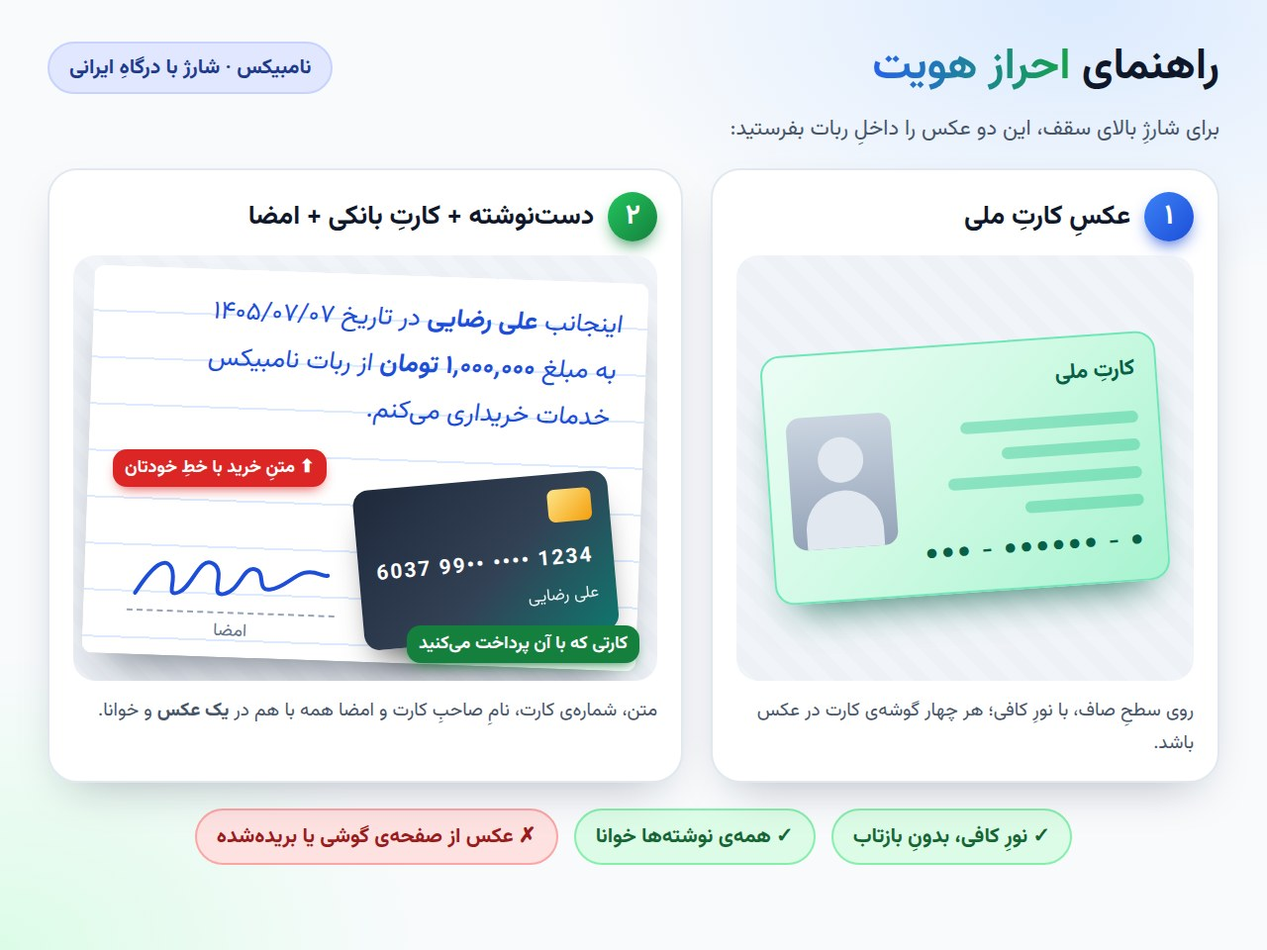
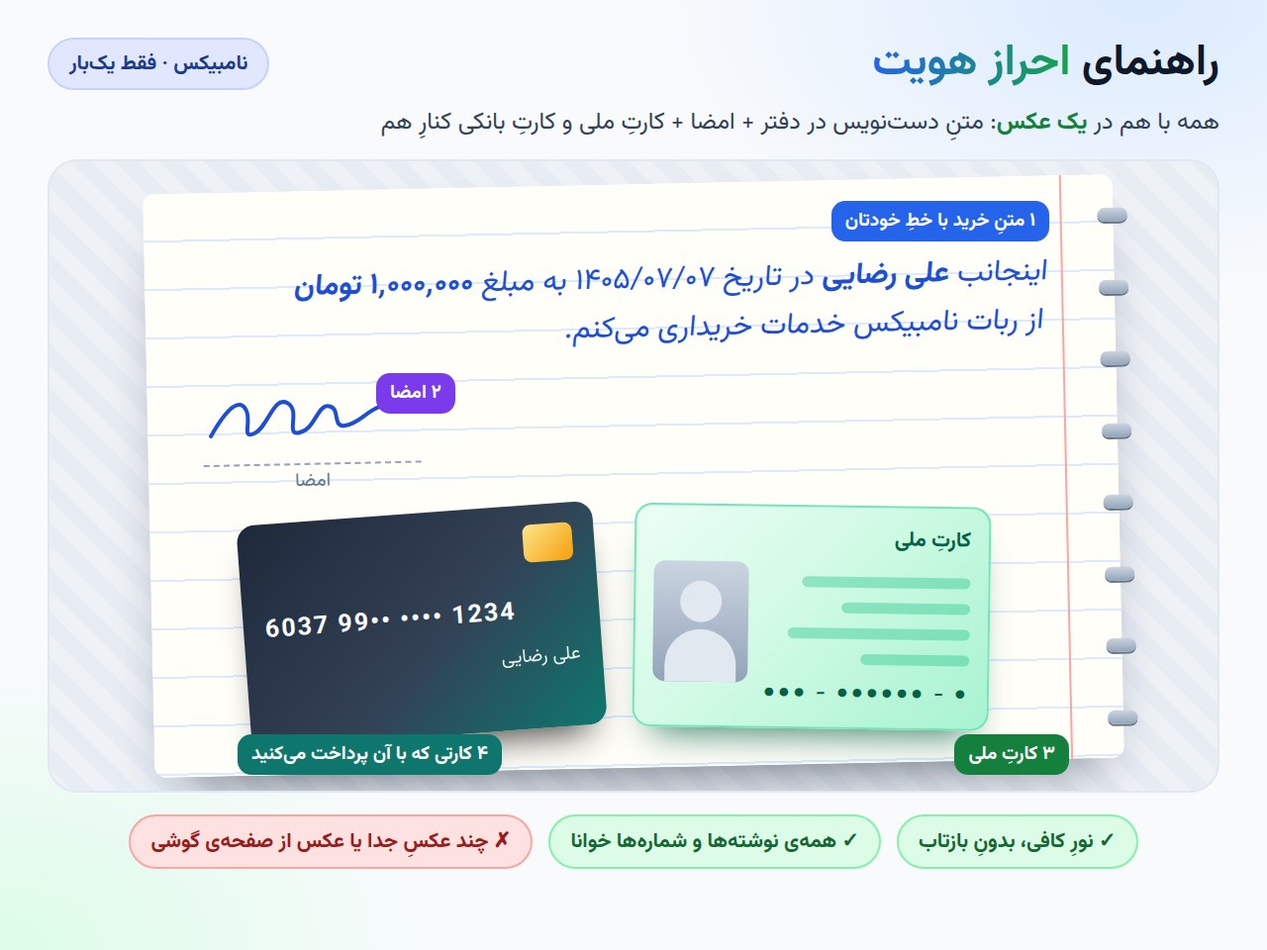
KYC for the Iranian gateway: one photo, one time
- Documents step is now a single photo: handwritten purchase text in a
  notebook + signature + national card and bank card side by side.
- New guide image showing exactly that layout.
- Asked only once: never again after approval; while pending an extra
  photo (album / double send) is ignored instead of re-notifying admins.
- Stale images from a rejected request are removed on re-submission.
- Users caught mid-way in the old two-step flow are handled (step 1 moves
  to the one-photo request; step 2 still submits both photos).
- Unchanged stored two-step texts are reset by migration v23_kyc_one.
- KYC stays Iranian-gateway only; tests confirm crypto and card-to-card
  never ask for it.

Claude-Session: https://claude.ai/code/session_0149wVT9SVdDfShZwvLnVCkA

diff --git a/numbix/pay.php b/numbix/pay.php
@@ -78,7 +78,7 @@ function kycLimit() { return (float)(irCfg()['kyc_limit'] ?? 0); }
 // احراز هویت فقط با شمارهی موبایل (بدونِ اسم و فامیل):
 //  otp   = زرینپال یک کدِ یکبارمصرف (پیامک/USSD) به همان شماره میفرستد و کاربر کد را وارد میکند (خودکار)
 //  phone = شماره برای مدیر فرستاده میشود و مدیر تایید میکند (وقتی کلیدِ OAuth زرینپال گذاشته نشده)
-//  docs  = (پیشفرض) بالای سقف: عکسِ کارتِ ملی + عکسِ دستنوشتهی خرید با کارتِ بانکیِ پرداخت و امضا — تاییدِ مدیر
+//  docs  = (پیشفرض) بالای سقف، فقط یکبار: یک عکس — دستنوشتهی خرید در دفتر + امضا + کارتِ ملی و کارتِ بانکیِ پرداخت کنارِ هم — تاییدِ مدیر
 function zpOauthCfg() { $c = irCfg(); $cl = function_exists('gwCleanKey') ? 'gwCleanKey' : 'trim'; return [$cl((string)($c['oauth_id'] ?? '')), $cl((string)($c['oauth_secret'] ?? ''))]; }
 function kycMode() {
     $m = (string)(irCfg()['kyc_mode'] ?? 'auto');
@@ -651,12 +651,12 @@ function kycStart($uid, $chatId, $msgId = null) {
     kycDocsStart($uid, $chatId, $msgId);
 }
 
-// احراز با مدارک: عکسِ راهنما، بعد مرحلهی ۱ (کارتِ ملی) و ۲ (دستنوشته + کارتِ بانکی + امضا)
+// احراز با مدارک (فقط یکبار): عکسِ راهنما، بعد «یک عکس» — دستنوشته در دفتر + امضا + کارتِ ملی و کارتِ بانکی کنارِ هم
 function kycDocsStart($uid, $chatId, $msgId = null) {
     if ($msgId) { delMsg(BOT_TOKEN, $chatId, $msgId); slotClear($uid, 'wallet'); }
     kycGuideSend($chatId);
-    setState($uid, 'kyc_card');
-    sendMsg(BOT_TOKEN, $chatId, T('kyc_card_ask'), inlineKb([[tuBtn('cancel', 'cb', 'tux')]]));
+    setState($uid, 'kyc_note');
+    sendMsg(BOT_TOKEN, $chatId, T('kyc_note_ask', kycNoteVars($uid)), inlineKb([[tuBtn('cancel', 'cb', 'tux')]]));
 }
 
 function kycGuideFile() { return __DIR__ . '/img/kyc_guide.jpg'; }
@@ -702,7 +702,7 @@ function kycDir() {
     }
     return $d;
 }
-// نامِ فایلِ عکسِ کارتِ ملی تصادفی است (نه آیدیِ کاربر) تا حدسزدنی نباشد؛ فایلهای قدیمیِ «آیدی.img» هم خوانده میشوند
+// نامِ فایلِ عکسِ مدارک تصادفی است (نه آیدیِ کاربر) تا حدسزدنی نباشد؛ فایلهای قدیمیِ «آیدی.img» هم خوانده میشوند
 function kycImgPath($uid, $slot = 'img') {
     $slot = $slot === 'img2' ? 'img2' : 'img';
     $n = (string)((getUser((int)$uid) ?: [])['kyc'][$slot] ?? '');
@@ -748,20 +748,38 @@ function kycSubmit($uid, $uname, $fname, $code, $fileId, $isDoc) {
     kycNotify($uid, $uname, $fname);
 }
 
-// احراز با مدارک: ۱) کارتِ ملی ۲) دستنوشتهی خرید + کارتِ بانکی + امضا
-function kycSubmitDocs($uid, $uname, $fname, array $card, array $note) {
-    mutateUser($uid, function (&$u) use ($card, $note) {
+// احراز با مدارک: یک عکس (دستنوشتهی خرید + امضا + کارتِ ملی و کارتِ بانکی کنارِ هم).
+// $card فقط برای کاربری است که وسطِ روشِ قدیمیِ دومرحلهای بوده (عکسِ کارتِ ملی را جدا فرستاده).
+// اگر درخواست در حالِ بررسی یا تاییدشده باشد، عکسِ دوباره (مثلا آلبوم) نادیده گرفته میشود → false
+function kycSubmitDocs($uid, $uname, $fname, array $note, array $card = []) {
+    // عکسهای درخواستِ ردشدهی قبلی: پاک میشوند تا اگر دانلودِ عکسِ تازه نگرفت، عکسِ کهنه جای آن دیده نشود
+    $old = [kycImgPath($uid, 'img'), kycImgPath($uid, 'img2')];
+    $fresh = false;
+    mutateUser($uid, function (&$u) use ($card, $note, &$fresh) {
         if ($u === null) return;
-        $u['kyc'] = ['st' => 'pending', 'mode' => 'docs', 'code' => '',
-                     'photo' => (string)$card['fid'], 'doc' => !empty($card['doc']) ? 1 : 0,
-                     'photo2' => (string)$note['fid'], 'doc2' => !empty($note['doc']) ? 1 : 0,
-                     'phone' => (string)($u['phone'] ?? ''), 'amt' => (float)($u['kyc_amt'] ?? 0), 'at' => time(),
-                     'img' => (string)($u['kyc']['img'] ?? ''), 'img2' => (string)($u['kyc']['img2'] ?? '')];
+        $st = (string)($u['kyc']['st'] ?? '');
+        if ($st === 'pending' || $st === 'ok') return;
+        $k = ['st' => 'pending', 'mode' => 'docs', 'code' => '',
+              'photo' => (string)$note['fid'], 'doc' => !empty($note['doc']) ? 1 : 0,
+              'phone' => (string)($u['phone'] ?? ''), 'amt' => (float)($u['kyc_amt'] ?? 0), 'at' => time()];
+        if (!empty($card['fid'])) {
+            $k['photo'] = (string)$card['fid']; $k['doc'] = !empty($card['doc']) ? 1 : 0;
+            $k['photo2'] = (string)$note['fid']; $k['doc2'] = !empty($note['doc']) ? 1 : 0;
+        }
+        $u['kyc'] = $k;
+        $fresh = true;
     });
+    if (!$fresh) return false;
+    foreach ($old as $f) if ($f !== '') @unlink($f);
     kycQueue(function (&$q) use ($uid) { $q[(string)$uid] = time(); });
-    kycSavePhoto($uid, (string)$card['fid'], 'img');
-    kycSavePhoto($uid, (string)$note['fid'], 'img2');
+    if (!empty($card['fid'])) {
+        kycSavePhoto($uid, (string)$card['fid'], 'img');
+        kycSavePhoto($uid, (string)$note['fid'], 'img2');
+    } else {
+        kycSavePhoto($uid, (string)$note['fid'], 'img');
+    }
     kycNotify($uid, $uname, $fname);
+    return true;
 }
 
 // احراز هویت فقط با شمارهی موبایل: شماره همان است که کاربر با دکمهی «ارسال شماره» فرستاده (تلگرام تاییدش کرده)
@@ -784,7 +802,8 @@ function kycCaption($uid) {
            ((float)($k['amt'] ?? 0) > 0 ? "\n💰 مبلغِ درخواستی: <b>" . fmtNum((float)$k['amt']) . "</b> تومان" : '') .
            "\n\n" . (($k['mode'] ?? 'phone') === 'docs'
                ? (!empty($k['photo2']) ? "📎 مدارک: ۱) کارتِ ملی ۲) دستنوشتهی خرید + کارتِ بانکی + امضا\n\n☑ بررسی کنید: نام روی کارتِ ملی = نامِ دستنوشته = نامِ صاحبِ کارتِ بانکی؛ امضا و مبلغ درست باشد."
-                                         : '📎 مدارک: عکسِ کارتِ ملی')
+                 : (trim((string)($k['code'] ?? '')) !== '' ? '📎 مدارک: عکسِ کارتِ ملی'
+                 : "📎 مدارک (یک عکس): دستنوشته در دفتر + امضا + کارتِ ملی و کارتِ بانکی کنارِ هم\n\n☑ بررسی کنید: نام روی کارتِ ملی = نامِ دستنوشته = نامِ صاحبِ کارتِ بانکی؛ امضا، تاریخ و مبلغ درست باشد."))
                : '☑ احراز با شمارهی موبایل (تاییدشده توسطِ تلگرام)');
 }
 
@@ -792,7 +811,7 @@ function kycKb($uid) {
     return inlineKb([[btnCb('✅ تایید', 'akyc_ok_' . (int)$uid, 'confirm'), btnCb('❌ رد', 'akyc_no_' . (int)$uid, 'reject')]]);
 }
 
-// عکسِ اولِ مدارک (کارتِ ملی) بدونِ دکمه، عکسِ دوم با کپشنِ کامل و دکمههای تایید/رد
+// فقط درخواستهای روشِ قدیمیِ دوعکسی: عکسِ اول (کارتِ ملی) بدونِ دکمه، عکسِ دوم با کپشنِ کامل و دکمههای تایید/رد
 function kycSendDocs($aid, $uid) {
     $k = (array)((getUser($uid) ?: [])['kyc'] ?? []);
     if (empty($k['photo2'])) return false;
@@ -985,27 +1004,33 @@ function payStateHandle($action, $msg, $uid, $chatId) {
         return true;
     }
     if ($action === 'kyc_card' || $action === 'kyc_note') {
+        $cancel = inlineKb([[tuBtn('cancel', 'cb', 'tux')]]);
+        $kst = kycSt($uid);
+        if ($kst === 'pending' || $kst === 'ok') {   // یکبار کافی است؛ عکسِ اضافه (آلبوم) دوباره ثبت نمیشود
+            clearState($uid);
+            if ($kst === 'ok') sendMsg(BOT_TOKEN, $chatId, T('kyc_ok'), inlineKb([[tuBtn('iran', 'cb', 'tum_iran')]]));
+            return true;
+        }
+        if ($action === 'kyc_card') {
+            // کاربری که هنگامِ بهروزرسانی وسطِ روشِ قدیمیِ دومرحلهای بوده: حالا همه در یک عکس
+            setState($uid, 'kyc_note');
+            sendMsg(BOT_TOKEN, $chatId, T('kyc_note_ask', kycNoteVars($uid)), $cancel);
+            return true;
+        }
         $fid = ''; $doc = false;
         if (!empty($msg['photo'])) { $p = $msg['photo']; $fid = (string)($p[count($p) - 1]['file_id'] ?? ''); }
         elseif (!empty($msg['document']) && str_starts_with((string)($msg['document']['mime_type'] ?? ''), 'image/')) {
             $fid = (string)($msg['document']['file_id'] ?? ''); $doc = true;
         }
-        $cancel = inlineKb([[tuBtn('cancel', 'cb', 'tux')]]);
         if ($fid === '') {
             sendMsg(BOT_TOKEN, $chatId, T('kyc_photo_bad'), $cancel);
-            sendMsg(BOT_TOKEN, $chatId, $action === 'kyc_card' ? T('kyc_card_ask') : T('kyc_note_ask', kycNoteVars($uid)), $cancel);
-            return true;
-        }
-        if ($action === 'kyc_card') {
-            setState($uid, 'kyc_note', ['card' => $fid, 'cdoc' => $doc ? 1 : 0]);
             sendMsg(BOT_TOKEN, $chatId, T('kyc_note_ask', kycNoteVars($uid)), $cancel);
             return true;
         }
-        $card = (string)($sd['card'] ?? '');
-        if ($card === '') { setState($uid, 'kyc_card'); sendMsg(BOT_TOKEN, $chatId, T('kyc_card_ask'), $cancel); return true; }
         clearState($uid);
-        kycSubmitDocs($uid, $uname, $fname, ['fid' => $card, 'doc' => !empty($sd['cdoc'])], ['fid' => $fid, 'doc' => $doc]);
-        sendMsg(BOT_TOKEN, $chatId, T('kyc_sent'), tuRestoreKb());
+        $card = (string)($sd['card'] ?? '');   // فقط روشِ قدیمی
+        if (kycSubmitDocs($uid, $uname, $fname, ['fid' => $fid, 'doc' => $doc], $card !== '' ? ['fid' => $card, 'doc' => !empty($sd['cdoc'])] : []))
+            sendMsg(BOT_TOKEN, $chatId, T('kyc_sent'), tuRestoreKb());
         return true;
     }
     if ($action === 'kyc_code') {
@@ -1189,13 +1214,13 @@ function payTextLabels() {
         'topup_gw_down' => '🪙 درگاهِ ارز جواب نداد',
         'topup_ir_phone' => '🏦 درخواستِ شماره', 'topup_ir_phone_ok' => '🏦 شماره ثبت شد',
         'topup_ir_phone_bad' => '🏦 شمارهی نامعتبر', 'topup_ir_amount' => '🏦 مبلغِ شارژِ ریالی',
-        'topup_ir_kyc_need' => '🏦 نیاز به احراز (کارتِ ملی + دستنوشته)', 'topup_ir_kyc_need_phone' => '🏦 نیاز به احراز (فقط شماره)',
+        'topup_ir_kyc_need' => '🏦 نیاز به احراز (یک عکس: دفتر + دو کارت)', 'topup_ir_kyc_need_phone' => '🏦 نیاز به احراز (فقط شماره)',
         'topup_ir_confirm' => '🏦 تایید و لینکِ درگاه',
         'topup_ir_down' => '🏦 درگاهِ ایرانی جواب نداد', 'topup_paid' => '✅ فاکتورِ پرداختشده',
         'kyc_otp_ask' => '🪪 درخواستِ کدِ تایید (زرینپال)', 'kyc_otp_bad' => '🪪 کدِ تاییدِ اشتباه', 'kyc_otp_fail' => '🪪 کد فرستاده نشد',
         'kyc_phone_confirm' => '🪪 احراز با شماره (تایید و ارسال)',
-        'kyc_guide' => '🪪 متنِ زیرِ عکسِ راهنما', 'kyc_card_ask' => '🪪 مرحلهی ۱: عکسِ کارتِ ملی',
-        'kyc_note_ask' => '🪪 مرحلهی ۲: دستنوشته + کارتِ بانکی + امضا', 'kyc_photo_bad' => '🪪 عکس نفرستاد',
+        'kyc_guide' => '🪪 متنِ زیرِ عکسِ راهنما',
+        'kyc_note_ask' => '🪪 درخواستِ عکس (دستنوشته + امضا + کارتِ ملی و بانکی)', 'kyc_photo_bad' => '🪪 عکس نفرستاد',
         'kyc_sent' => '🪪 مدارک ثبت شد',
         'kyc_pending' => '🪪 در حالِ بررسی', 'kyc_ok' => '🪪 احراز هویت تایید شد', 'kyc_no' => '🪪 احراز هویت رد شد',
     ];
@@ -1299,7 +1324,7 @@ function payAdmIr($chatId, $msgId) {
     $t .= "مرچنت: " . ($m !== '' ? '✅ ' . h(mb_substr($m, 0, 6)) . '…' : '<b>خالی</b>') . "\n";
     $t .= "حداقل: <b>" . fmtNum(tuMin('iran')) . "</b> · حداکثر: <b>" . ((float)($c['max'] ?? 0) > 0 ? fmtNum($c['max']) : 'بیسقف') . "</b> تومان\n";
     $t .= "احراز هویت: " . (!empty($c['kyc']) ? '✅ بالای <b>' . fmtNum(kycLimit()) . '</b> تومان — ' .
-          ['otp' => 'کدِ یکبارمصرفِ زرینپال به شمارهی موبایل', 'phone' => 'شمارهی موبایل + تاییدِ مدیر', 'docs' => 'عکسِ کارتِ ملی + دستنوشتهی خرید با کارتِ بانکی و امضا (تاییدِ مدیر)'][kycMode()] : '❌ خاموش') . "\n";
+          ['otp' => 'کدِ یکبارمصرفِ زرینپال به شمارهی موبایل', 'phone' => 'شمارهی موبایل + تاییدِ مدیر', 'docs' => 'یک عکس: دستنوشته در دفتر + امضا + کارتِ ملی و کارتِ بانکی کنارِ هم (تاییدِ مدیر، فقط یکبار)'][kycMode()] : '❌ خاموش') . "\n";
     [$oid0, $osc0] = zpOauthCfg();
     $t .= "OAuthِ زرینپال (برای کدِ پیامکی): " . ($oid0 !== '' && $osc0 !== '' ? '✅ ثبت شده' : '— ثبت نشده (client_id و client_secret را از پشتیبانیِ زرینپال بگیرید)') . "\n";
     $t .= "فقط شمارهی ایرانی: " . (!empty($c['ir_only']) ? '✅' : '❌') . "\n";
@@ -1311,7 +1336,7 @@ function payAdmIr($chatId, $msgId) {
         [btnCb('🔻 حداقل', 'payx_ir_min', 'admin'), btnCb('🔺 حداکثر', 'payx_ir_max', 'admin')],
         [btnCb((!empty($c['kyc']) ? '🪪 احراز: روشن' : '🪪 احراز: خاموش'), 'payx_ir_k', 'admin'), btnCb('📏 سقفِ بدونِ احراز', 'payx_ir_kl', 'admin')],
         [btnCb((!empty($c['ir_only']) ? '🇮🇷 فقط ایرانی: روشن' : '🇮🇷 فقط ایرانی: خاموش'), 'payx_ir_io', 'admin'),
-         btnCb(['otp' => '📩 احراز: کدِ پیامکیِ زرینپال', 'phone' => '📱 احراز: شماره + تاییدِ مدیر', 'docs' => '📎 احراز: کارتِ ملی + دستنوشته'][kycMode()], 'payx_ir_km', 'admin')],
+         btnCb(['otp' => '📩 احراز: کدِ پیامکیِ زرینپال', 'phone' => '📱 احراز: شماره + تاییدِ مدیر', 'docs' => '📎 احراز: یک عکس (دفتر + دو کارت)'][kycMode()], 'payx_ir_km', 'admin')],
         [btnCb('🖼 عکسِ راهنمای احراز' . (trim((string)($c['kyc_guide'] ?? '')) !== '' ? ' (عکسِ خودتان)' : ' (پیشفرض)'), 'payx_kg', 'admin')],
         [btnCb('🔐 OAuth: client_id', 'payx_ir_ci', 'admin'), btnCb('🔐 OAuth: client_secret', 'payx_ir_cs', 'admin')],
         [btnCb(((irCfg()['otp_ch'] ?? 'sms') === 'ussd' ? '📞 کد با USSD' : '💬 کد با پیامک'), 'payx_ir_ch', 'admin')],
@@ -2159,8 +2184,8 @@ $('phBot').onclick = function(){ tap(); openBot('phone'); };
 function kycView(st, lim){
   var ph = S.kmode !== 'docs';
   $('kT').innerHTML = st === 'pending' ? 'درخواستِ احراز هویتِ شما در حالِ بررسی است؛ تا تایید، مبلغِ کمتر از <b>' + fa(lim) + '</b> تومان را پرداخت کنید.'
-    : 'برای پرداختِ بیش از <b>' + fa(lim) + '</b> تومان، یکبار احراز هویت لازم است' + (ph ? ' — فقط با <b>شمارهی موبایلِ</b> خودتان؛ اسم و مدرک لازم نیست.'
-      : ': <b>۱)</b> عکسِ کارتِ ملی <b>۲)</b> دستنوشتهی خرید + کارتِ بانکیای که با آن پرداخت میکنید + امضا — داخلِ ربات، با راهنمای تصویری.');
+    : 'برای پرداخت با درگاهِ ایرانی بیش از <b>' + fa(lim) + '</b> تومان، یکبار احراز هویت لازم است' + (ph ? ' — فقط با <b>شمارهی موبایلِ</b> خودتان؛ اسم و مدرک لازم نیست.'
+      : ' — با <b>یک عکس</b>: متنِ خرید در دفترتان + امضا + <b>کارتِ ملی</b> و <b>کارتِ بانکی</b>ای که با آن پرداخت میکنید کنارِ هم. داخلِ ربات، با راهنمای تصویری؛ بعد از تایید دیگر لازم نیست.');
   if (S.kmode === 'otp') $('kT').innerHTML = 'برای پرداختِ بیش از <b>' + fa(lim) + '</b> تومان، یکبار شمارهی موبایلتان را با <b>کدِ تاییدِ زرینپال</b> تایید کنید؛ اسم و مدرک لازم نیست.';
   $('kGoT').textContent = S.kmode === 'otp' ? 'دریافتِ کدِ تایید' : (ph ? 'ارسالِ شماره برای احراز هویت' : 'احراز هویت در ربات');
   $('kGo').classList.toggle('hid', st === 'pending');

diff --git a/numbix/bot_master_membership.php b/numbix/bot_master_membership.php
@@ -1064,12 +1064,11 @@ function defaultConfig() {
             'topup_ir_phone_ok'    => "✅ شمارهی <b>{phone}</b> ثبت شد.",
             'topup_ir_phone_bad'   => "⚠ فقط شمارهی موبایلِ ایرانیِ <b>خودتان</b> را با دکمهی «📱 ارسال شماره» بفرستید.",
             'topup_ir_amount'      => "<tg-emoji emoji-id=\"6302990448206022613\">🏦</tg-emoji> <b>درگاه پرداخت ایرانی</b>\n\n📱 شماره: <b>{phone}</b>\nمبلغِ شارژ را به <b>تومان</b> بفرستید یا یکی از دکمهها را بزنید.\n\n🔻 حداقل: <b>{min}</b> تومان",
-            // تا سقف فقط شماره؛ بالای سقف: عکسِ کارتِ ملی + دستنوشتهی خرید با کارتِ بانکی و امضا
-            'topup_ir_kyc_need'    => "<tg-emoji emoji-id=\"5251203410396458957\">🛡</tg-emoji> <b>احراز هویت لازم است</b>\n\nبرای شارژِ بیش از <b>{limit}</b> تومان، یکبار احراز هویت کنید:\n<blockquote>۱) عکسِ کارتِ ملی\n۲) دستنوشتهی خرید + کارتِ بانکیای که با آن پرداخت میکنید + امضا</blockquote>\nراهنمای تصویری هم برایتان میفرستیم. تا <b>{limit}</b> تومان فقط شمارهی موبایل کافی است؛ یا مبلغِ کمتری وارد کنید.",
+            // تا سقف فقط شماره؛ بالای سقف (فقط یکبار): یک عکس — دستنوشته در دفتر + امضا + کارتِ ملی و کارتِ بانکی کنارِ هم
+            'topup_ir_kyc_need'    => "<tg-emoji emoji-id=\"5251203410396458957\">🛡</tg-emoji> <b>احراز هویت لازم است</b>\n\nبرای شارژ با <b>درگاهِ ایرانی</b> بیش از <b>{limit}</b> تومان، <b>فقط یکبار</b> احراز هویت کنید — با <b>یک عکس</b>:\n<blockquote>در دفترتان متنِ خرید را با خطِ خودتان بنویسید و امضا کنید، <b>کارتِ ملی</b> و <b>کارتِ بانکی</b>ای را که با آن پرداخت میکنید کنارِ هم روی برگه بگذارید و عکس بگیرید.</blockquote>\nراهنمای تصویری هم برایتان میفرستیم؛ بعد از تایید دیگر لازم نیست. تا <b>{limit}</b> تومان فقط شمارهی موبایل کافی است؛ یا مبلغِ کمتری وارد کنید.",
             'topup_ir_kyc_need_phone' => "🪪 <b>احراز هویت لازم است</b>\n\nبرای پرداختِ بیش از <b>{limit}</b> تومان، یکبار احراز هویت کنید — فقط با <b>شمارهی موبایلِ</b> خودتان؛ اسم و فامیل لازم نیست.\n\nیا مبلغِ کمتری وارد کنید.",
-            'kyc_guide'            => "<tg-emoji emoji-id=\"5251203410396458957\">🛡</tg-emoji> <b>راهنمای احراز هویت</b>\n\n۱) یک عکسِ واضح از روی <b>کارتِ ملی</b>\n۲) روی یک برگه متنِ خرید را با خطِ خودتان بنویسید، <b>کارتِ بانکی</b>ای را که با آن پرداخت میکنید رویش بگذارید و <b>امضا</b> کنید؛ از همه با هم <b>یک عکس</b> بگیرید.\n\n✅ نورِ کافی، بدونِ بازتاب؛ همهی نوشتهها خوانا.",
-            'kyc_card_ask'         => "<tg-emoji emoji-id=\"5305265301917549162\">📎</tg-emoji> <b>مرحلهی ۱ از ۲ — کارتِ ملی</b>\n\nیک عکسِ واضح از روی <b>کارتِ ملی</b>ِ خودتان بفرستید 👇",
-            'kyc_note_ask'         => "<tg-emoji emoji-id=\"5197269100878907942\">✍</tg-emoji> <b>مرحلهی ۲ از ۲ — دستنوشته + کارتِ بانکی + امضا</b>\n\nروی یک برگه با خطِ خودتان این را بنویسید:\n<blockquote>اینجانب ……………… (نام و نام خانوادگی) در تاریخ {date} به مبلغ {amount} تومان از ربات نامبیکس خدمات خریداری میکنم.</blockquote>\n✍ زیرش <b>امضا</b> کنید، <b>کارتِ بانکی</b>ای را که با آن پرداخت میکنید روی برگه بگذارید و از همه با هم <b>یک عکس</b> بفرستید 👇\n\n<tg-emoji emoji-id=\"5420323339723881652\">⚠</tg-emoji> شمارهی کارت، نامِ صاحبِ کارت، متن و امضا باید خوانا باشد.",
+            'kyc_guide'            => "<tg-emoji emoji-id=\"5251203410396458957\">🛡</tg-emoji> <b>راهنمای احراز هویت — فقط یکبار</b>\n\nهمه با هم در <b>یک عکس</b>:\n۱) متنِ خرید با خطِ خودتان در دفتر\n۲) <b>امضا</b> زیرِ متن\n۳) <b>کارتِ ملی</b> و ۴) <b>کارتِ بانکی</b>ای که با آن پرداخت میکنید، کنارِ هم روی همان برگه\n\n✅ نورِ کافی، بدونِ بازتاب؛ همهی نوشتهها و شمارهها خوانا.",
+            'kyc_note_ask'         => "<tg-emoji emoji-id=\"5197269100878907942\">✍</tg-emoji> <b>احراز هویت — یک عکس، فقط یکبار</b>\n\nدر دفترتان با خطِ خودتان این را بنویسید:\n<blockquote>اینجانب ……………… (نام و نام خانوادگی) در تاریخ {date} به مبلغ {amount} تومان از ربات نامبیکس خدمات خریداری میکنم.</blockquote>\n✍ زیرش <b>امضا</b> کنید، <b>کارتِ ملی</b> و <b>کارتِ بانکی</b>ای را که با آن پرداخت میکنید <b>کنارِ هم</b> روی برگه بگذارید و از همه با هم <b>یک عکس</b> بفرستید 👇\n\n<tg-emoji emoji-id=\"5420323339723881652\">⚠</tg-emoji> متن، امضا، نام و شمارهی هر دو کارت باید خوانا باشد.",
             'kyc_photo_bad'        => "⚠ لطفا <b>عکس</b> بفرستید (متن یا فایلِ غیرِ عکس پذیرفته نمیشود).",
             'kyc_otp_ask'          => "🪪 <b>احراز هویت با شمارهی موبایل</b>\n\nکدِ تاییدِ یکبارمصرفِ <b>زرینپال</b> برای <b>{phone}</b> فرستاده شد ({channel}).\n{ussd}\n👇 کد را همینجا بفرستید:",
             'kyc_otp_bad'          => "⚠ {error}\nکد را دوباره بفرستید یا کدِ تازه بگیرید.",
@@ -5687,6 +5686,18 @@ function runBackgroundQueues() {
             foreach (['word_hack', 'manual_protect', 'shield_after', 'hack_cooldown', 'rng'] as $k) unset($c[$k]);
             foreach (array_keys((array)($c['texts'] ?? [])) as $k)
                 if (preg_match('/^(hack_|risk_|btn_risk_)|^(protected|protect_still)$/', (string)$k)) unset($c['texts'][$k]);
+        });
+    });
+    migrateOnce('v23_kyc_one', function () {
+        // احراز با مدارک حالا «یک عکس» است؛ متنهای دومرحلهای اگر بیتغییر ذخیره شدهاند پاک شوند تا متنِ تازه بنشیند
+        cfgSet(function (&$c) {
+            $old = [
+                'topup_ir_kyc_need' => "<tg-emoji emoji-id=\"5251203410396458957\">🛡</tg-emoji> <b>احراز هویت لازم است</b>\n\nبرای شارژِ بیش از <b>{limit}</b> تومان، یکبار احراز هویت کنید:\n<blockquote>۱) عکسِ کارتِ ملی\n۲) دستنوشتهی خرید + کارتِ بانکیای که با آن پرداخت میکنید + امضا</blockquote>\nراهنمای تصویری هم برایتان میفرستیم. تا <b>{limit}</b> تومان فقط شمارهی موبایل کافی است؛ یا مبلغِ کمتری وارد کنید.",
+                'kyc_guide' => "<tg-emoji emoji-id=\"5251203410396458957\">🛡</tg-emoji> <b>راهنمای احراز هویت</b>\n\n۱) یک عکسِ واضح از روی <b>کارتِ ملی</b>\n۲) روی یک برگه متنِ خرید را با خطِ خودتان بنویسید، <b>کارتِ بانکی</b>ای را که با آن پرداخت میکنید رویش بگذارید و <b>امضا</b> کنید؛ از همه با هم <b>یک عکس</b> بگیرید.\n\n✅ نورِ کافی، بدونِ بازتاب؛ همهی نوشتهها خوانا.",
+                'kyc_card_ask' => "<tg-emoji emoji-id=\"5305265301917549162\">📎</tg-emoji> <b>مرحلهی ۱ از ۲ — کارتِ ملی</b>\n\nیک عکسِ واضح از روی <b>کارتِ ملی</b>ِ خودتان بفرستید 👇",
+                'kyc_note_ask' => "<tg-emoji emoji-id=\"5197269100878907942\">✍</tg-emoji> <b>مرحلهی ۲ از ۲ — دستنوشته + کارتِ بانکی + امضا</b>\n\nروی یک برگه با خطِ خودتان این را بنویسید:\n<blockquote>اینجانب ……………… (نام و نام خانوادگی) در تاریخ {date} به مبلغ {amount} تومان از ربات نامبیکس خدمات خریداری میکنم.</blockquote>\n✍ زیرش <b>امضا</b> کنید، <b>کارتِ بانکی</b>ای را که با آن پرداخت میکنید روی برگه بگذارید و از همه با هم <b>یک عکس</b> بفرستید 👇\n\n<tg-emoji emoji-id=\"5420323339723881652\">⚠</tg-emoji> شمارهی کارت، نامِ صاحبِ کارت، متن و امضا باید خوانا باشد.",
+            ];
+            foreach ($old as $k => $v) if (($c['texts'][$k] ?? null) === $v || $k === 'kyc_card_ask') unset($c['texts'][$k]);
         });
     });
     migrateOnce('v22_kyc_docs', function () {

diff --git a/numbix/admin_panel.php b/numbix/admin_panel.php
@@ -2711,7 +2711,7 @@ tr.grp td{background:var(--surface-2);font-weight:800}
     <div class="note">
       روال: کاربر «درگاه ایرانی» را میزند ← <b>شمارهی موبایلِ خودش</b> را با دکمه میفرستد ← مبلغ ←
       تا سقفِ زیر همین شماره کافی است؛ بیشتر از سقف یکبار <b>احراز هویت</b>: ربات عکسِ راهنما میفرستد و کاربر
-      <b>۱) عکسِ کارتِ ملی</b> و <b>۲) عکسِ دستنوشتهی خرید + کارتِ بانکیِ پرداخت + امضا</b> را میفرستد؛ شما اینجا یا در ربات تایید میکنید ←
+      <b>یک عکس</b> میفرستد: متنِ خرید در دفتر + امضا + <b>کارتِ ملی</b> و <b>کارتِ بانکیِ پرداخت</b> کنارِ هم؛ شما اینجا یا در ربات تایید میکنید (فقط یکبار؛ بعد از تایید دیگر خواسته نمیشود) ←
       تایید و <b>لینکِ درگاه</b> با دکمهی شیشهای ←
       بعد از پرداخت، حساب <b>خودکار</b> شارژ میشود. آدرسِ بازگشت خودکار ساخته میشود.
       <br>زرینپال: مرچنتِ ۳۶ کاراکتری از <a href="https://next.zarinpal.com" target="_blank" rel="noopener">پنلِ زرینپال</a> · زیبال: کدِ مرچنت از <a href="https://zibal.ir" target="_blank" rel="noopener">پنلِ زیبال</a>.
@@ -2735,7 +2735,7 @@ tr.grp td{background:var(--surface-2);font-weight:800}
         <label class="chk"><input type="checkbox" name="ir_kyc" value="1" <?= !empty($IR['kyc']) ? 'checked' : '' ?>> احراز هویت برای مبالغِ بالا</label>
         <div><label>تا این مبلغ بدونِ احراز هویت (تومان)</label><input name="ir_kyc_limit" value="<?= h((string)(float)($IR['kyc_limit'] ?? 500000)) ?>" style="direction:ltr"></div>
         <div><label>احراز هویت برای بالای سقف (تا سقف فقط شمارهی موبایل)</label><select name="ir_kyc_mode">
-          <option value="docs" <?= ($IR['kyc_mode'] ?? 'docs') === 'docs' ? 'selected' : '' ?>>عکسِ کارتِ ملی + دستنوشتهی خرید با کارتِ بانکی و امضا (با عکسِ راهنما)</option>
+          <option value="docs" <?= ($IR['kyc_mode'] ?? 'docs') === 'docs' ? 'selected' : '' ?>>یک عکس: دستنوشته در دفتر + امضا + کارتِ ملی و کارتِ بانکی کنارِ هم (با عکسِ راهنما)</option>
           <option value="phone" <?= ($IR['kyc_mode'] ?? '') === 'phone' ? 'selected' : '' ?>>فقط شمارهی موبایل + تاییدِ مدیر</option>
           <option value="auto" <?= ($IR['kyc_mode'] ?? '') === 'auto' ? 'selected' : '' ?>>کدِ پیامکیِ زرینپال (اگر OAuth ثبت شده) — وگرنه تاییدِ مدیر</option></select></div>
         <div><label>زرینپال OAuth — client_id <?= trim((string)($IR['oauth_id'] ?? '')) !== '' ? '<span class="badge green">ثبت شده</span>' : '<span class="badge">ثبت نشده</span>' ?></label>
@@ -2777,17 +2777,17 @@ tr.grp td{background:var(--surface-2);font-weight:800}
             آیدی: <code><?= (int)$ku ?></code><br>
             موبایل: <code><?= h((string)($KU['phone'] ?? '—')) ?></code><br>
             <?php if (trim((string)($KK['code'] ?? '')) !== ''): ?>کدِ ملی: <code><?= h((string)$KK['code']) ?></code><br><?php endif; ?>
-            روش: <?= ($KK['mode'] ?? 'phone') === 'docs' ? (!empty($KK['photo2']) ? 'کارتِ ملی + دستنوشته با کارتِ بانکی و امضا' : 'کدِ ملی + عکس') : 'شمارهی موبایل (تاییدِ مدیر)' ?><br>
+            روش: <?= ($KK['mode'] ?? 'phone') === 'docs' ? (!empty($KK['photo2']) ? 'کارتِ ملی + دستنوشته با کارتِ بانکی و امضا (دو عکس)' : (trim((string)($KK['code'] ?? '')) !== '' ? 'کدِ ملی + عکس' : 'یک عکس: دستنوشته + امضا + کارتِ ملی و کارتِ بانکی')) : 'شمارهی موبایل (تاییدِ مدیر)' ?><br>
             <?php if ((float)($KK['amt'] ?? 0) > 0): ?>مبلغِ درخواستی: <b><?= h(fmtNum((float)$KK['amt'])) ?></b> تومان<br><?php endif; ?>
             <span class="muted"><?= !empty($KK['at']) ? h(date('Y-m-d H:i', (int)$KK['at'])) : '' ?></span>
           </div>
           <div><?php $kHas1 = kycImgPath((int)$ku) !== ''; $kHas2 = kycImgPath((int)$ku, 'img2') !== ''; ?>
             <?php if ($kHas1 || $kHas2): ?><div style="display:flex;gap:8px;flex-wrap:wrap">
-              <?php foreach ([[$kHas1, '', '۱) کارتِ ملی'], [$kHas2, '&amp;n=2', '۲) دستنوشته + کارتِ بانکی + امضا']] as [$kOn, $kQ, $kL]): if (!$kOn) continue; ?>
+              <?php foreach ([[$kHas1, '', $kHas2 ? '۱) کارتِ ملی' : (trim((string)($KK['code'] ?? '')) !== '' ? 'کارتِ ملی' : 'دستنوشته + امضا + کارتِ ملی و کارتِ بانکی')], [$kHas2, '&amp;n=2', '۲) دستنوشته + کارتِ بانکی + امضا']] as [$kOn, $kQ, $kL]): if (!$kOn) continue; ?>
                 <figure style="margin:0;flex:1;min-width:140px"><a href="?kycimg=<?= (int)$ku ?><?= $kQ ?>" target="_blank" rel="noopener"><img src="?kycimg=<?= (int)$ku ?><?= $kQ ?>" alt="" style="width:100%;max-height:220px;object-fit:contain;border-radius:12px;border:1px solid var(--border)"></a>
                   <figcaption class="muted" style="font-size:12px;margin-top:4px"><?= $kL ?></figcaption></figure>
               <?php endforeach; ?></div>
-            <?php elseif (($KK['mode'] ?? 'phone') === 'docs'): ?><span class="muted">عکسها در ربات برای مدیر فرستاده شده.</span><?php endif; ?></div>
+            <?php elseif (($KK['mode'] ?? 'phone') === 'docs'): ?><span class="muted">عکس در ربات برای مدیر فرستاده شده.</span><?php endif; ?></div>
         </div>
         <div class="row" style="margin-top:10px">
           <form method="post"><?= fk('kyc_decide', ['s' => 'gw']) ?><input type="hidden" name="uid" value="<?= (int)$ku ?>"><input type="hidden" name="dec" value="ok"><button class="btn g sm">✅ تایید</button></form>
